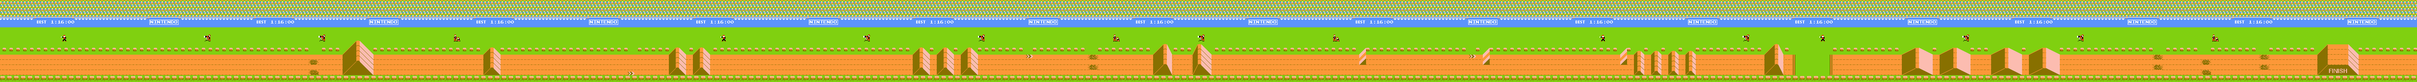
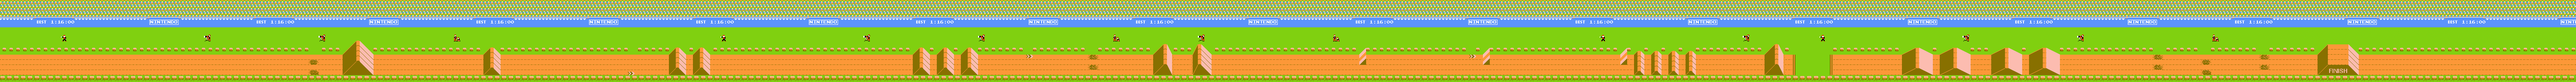
Goal reached event

diff --git a/Excitebike/js/GamePlay.js b/Excitebike/js/GamePlay.js
@@ -20,6 +20,7 @@ class GamePlay extends Phaser.Scene{
         this.load.image('pilotTurnLeft',ruta + 'pilot_turning_left.png');
         this.load.image('pilotTurnRight',ruta + 'pilot_turning_right.png');
         this.load.image('pilotStanding',ruta + 'pilot_standing.png');
+        
         this.load.xml('obsts', 'assets/map1Info.xml');
 
         console.log("resources loaded");
@@ -38,10 +39,11 @@ class GamePlay extends Phaser.Scene{
             var lane = parseInt(item.getAttribute('lane'), 10);
             
             myObstacles[i] = new Obstacle(this, type, position, lane); 
+            if(myObstacles[i].isFinish) this.goal = myObstacles[i];
         }
         this.obstacles = myObstacles;
 
-        
+        this.isMoving = true;
         this.lap1 = this.add.image(0, 0, 'backGround').setOrigin(0).setScale(1);
         this.lap2 = this.add.image(this.lap1.width, 0, 'backGroundLap2').setOrigin(0).setScale(1);
         this.lap3 = this.add.image(this.lap1.width + this.lap2.width, 0, 'backGroundLap3').setOrigin(0).setScale(1);
@@ -49,7 +51,7 @@ class GamePlay extends Phaser.Scene{
         this.backGround = this.add.container();
         this.backGround.add([this.lap1, this.lap2, this.lap3]);
 
-        this.pilot = new Player(this, 1 );
+        this.pilot = new Player(this, 1);
         
         this.pilotMapPosition = this.pilot.sprite.x;
 
@@ -57,13 +59,20 @@ class GamePlay extends Phaser.Scene{
 
     }
 
-
     update(){
 
         this.pilot.customUpdate(this.inputs);
 
-        this.backGround.x -= this.pilot.speedX; // container scroll  
-        this.pilotMapPosition += this.pilot.speedX;
+        if(this.pilotMapPosition >= this.goal.end)  // finish reached
+        {
+            this.isMoving = false;
+            this.physics.moveTo(this.pilot.sprite, config.width, this.pilot.sprite.y, this.pilot.speedY);
+        }
+
+        if(this.isMoving){
+            this.backGround.x -= this.pilot.speedX; // container scroll  
+            this.pilotMapPosition += this.pilot.speedX;
+        }
          
         this.obstacles.forEach(obstacle => {
            var playerPos = Math.trunc(this.pilotMapPosition);
@@ -72,13 +81,9 @@ class GamePlay extends Phaser.Scene{
                 console.log(playerPos);
                 console.log("A " + obstacle.type + ": " + obstacle.x.toString() + " - " + obstacle.end.toString());
 
-                if(obstacle.isFinish)
-                {
-                }
-
+               
             }
         });
-        
     }
     
     isInside(positionX, _obstacle)
